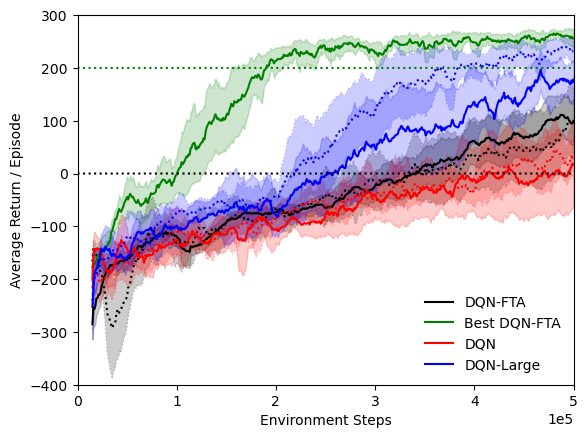
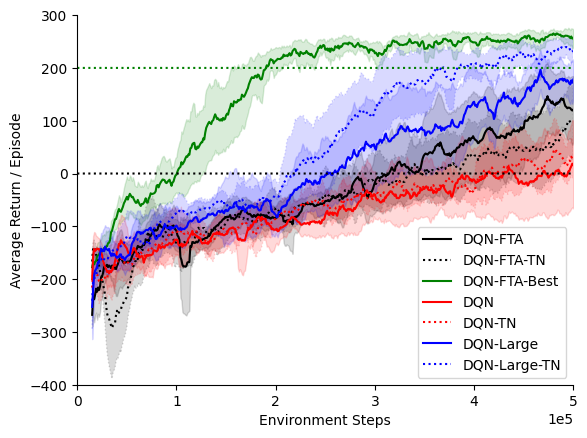
added student t plots

diff --git a/paper/final/main.tex b/paper/final/main.tex
@@ -396,12 +396,12 @@ The state space of the CartPole environment contains four values: cart position.
 The action space is: push cart left, and push cart right.
 Since the goal is to keep the pole from falling a reward of $1$ is recieved for each step, and the episode terminates once the pole is at an angle greater than $\pm 12^\circ$.
 
-% \begin{figure}[h]
-%     \centering
-%     \includegraphics[width=10cm]{cartpole.png}
-%     \caption{DQN-FTA without target network vs DQN-FTA-tanh in CartPole}
-%     \label{fig:cartpole}
-% \end{figure}
+\begin{figure}[h]
+    \centering
+    \includegraphics[width=10cm]{cartpole.png}
+    \caption{DQN-FTA without target network vs DQN-FTA-tanh in CartPole}
+    \label{fig:cartpole}
+\end{figure}
 
 
 We first tested to see how DQN-FTA without a target network performs with three different tiling bounds ($u=0.01, 1, 100$) and $k=20$.
@@ -410,8 +410,8 @@ Unlike in LunarLander, a tiling bound of $u=100$ performs best, while $u=1$ perf
 
 We next tested to see if applying $tanh$ normalization before the FTA layer can improve the performance of $u=0.01, 1$ to be similar to that of $u=100$.
 The right plot in Figure \ref{fig:cartpole} illustrates that indeed, applying $tanh$ normaliztion caused for DQN-FTA to perform similar for all the tiling bounds we tested ($u=0.01, 1, 100$).
-Further, we noticed that the performance with $tanh$ for all the tiling bounds is even better than it was without it for $u=100$.
-This might indicate that the optimal tiling bound is not $u=100$ and $tanh$ was able to apply the appropriate normalization to find it.
+% Further, we noticed that the performance with $tanh$ for all the tiling bounds is even better than it was without it for $u=100$.
+% This might indicate that the optimal tiling bound is not $u=100$ and $tanh$ was able to apply the appropriate normalization to find it.
 Thus, the experimental results in the CartPole environment further confirm that using $tanh$ normalization before an FTA layer can indeed remove the need for tuning the tiling bound $u$.
 
 
